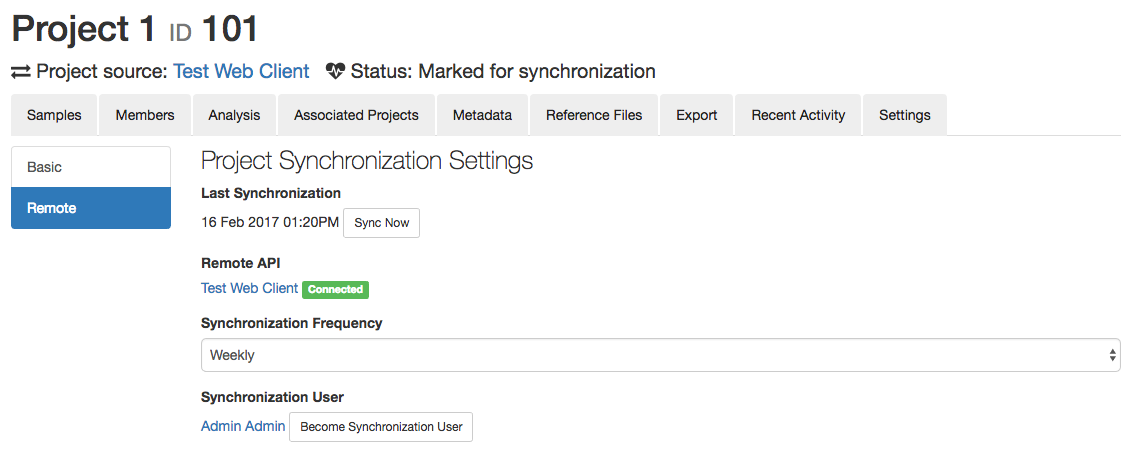
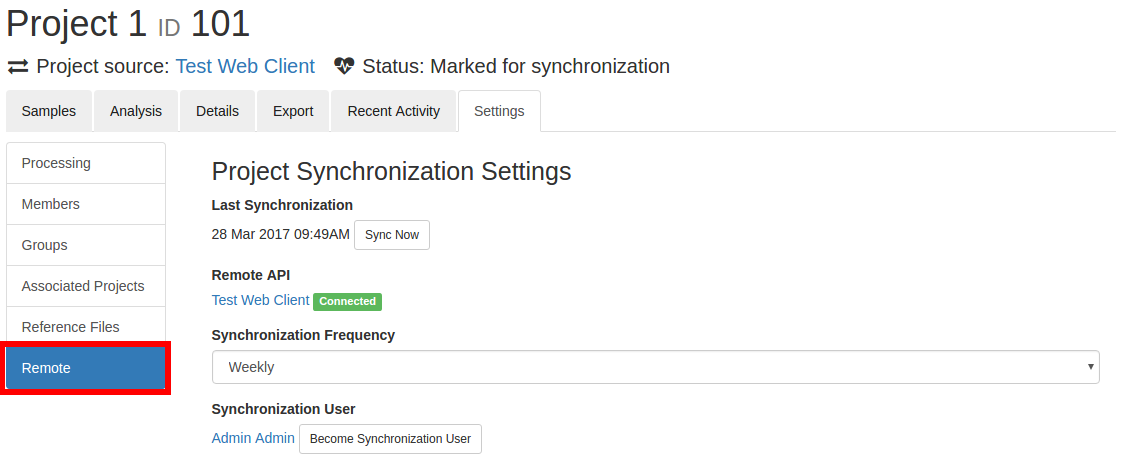
updated project processing docs

diff --git a/doc/user/user/project/index.md b/doc/user/user/project/index.md
@@ -276,6 +276,12 @@ If you are a manager on a project you can manage settings on individual projects
 
 ![Project settings tab.](images/project-settings-tab.png)
 
+### Processing
+
+Project processing settings can be found in the **Processing** tab in the project settings page.
+
+![Processing tab](images/project-settings-processing.png)
+
 #### Automated assemblies
 
 Data that is uploaded to a project in IRIDA can be automatically assembled using IRIDA's assembly and annotation pipeline.  This setting is enabled on a project-by-project basis and must be enabled by a project **manager**.
@@ -286,7 +292,7 @@ To enable automated assemblies, check the *Automatically assemble data uploaded 
 
 #### Project coverage
 
-IRIDA can calculate the coverage of uploaded sequencing data for a sample.  To enable this a genome size and expected coverage must be set for a project, under the Project > Settings > Basic menu.
+IRIDA can calculate the coverage of uploaded sequencing data for a sample.  To enable this a genome size and expected coverage must be set for a project in the project settings page.
 
 * **Required Coverage** - The coverage expected by any sequencing data being uploaded to the project.
 * **Genome Size** - The size of the genome of the organism being targeted by the project.
@@ -301,11 +307,11 @@ You can then enter your coverage settings and click `Update`.
 
 When these options are set IRIDA will flag any samples which do not meet the expected coverage requirement in the [project/samples list](../samples/#viewing-samples-in-a-project).  It will also display the coverage for a sample when you [view sequence files for a sample](../samples/#viewing-sequence-files). 
 
-#### Remote project settings
+### Remote project settings
 
-Settings for remote synchronized projects can also be managed from the project settings page.  These settings will only appear for synchronized projects, and will be available within the 'Remote' menu item.  
+Settings for remote synchronized projects can also be managed from the project settings page.  **Note:** these settings will only appear for synchronized projects, and will be available within the 'Remote' menu item.  
 
-![Automated assembly check](images/project-settings-sync.png)
+![Remote Project Settings](images/project-settings-sync.png)
 
 * **Last Synchronization** - The time the project was last synchronized or checked for updates.  Click the **Sync Now** button to mark the project for synchronization before it's scheduled sync time. 
 * **Remote API** - Displays the remote IRIDA installation the project is hosted on and your connection status with that API.
